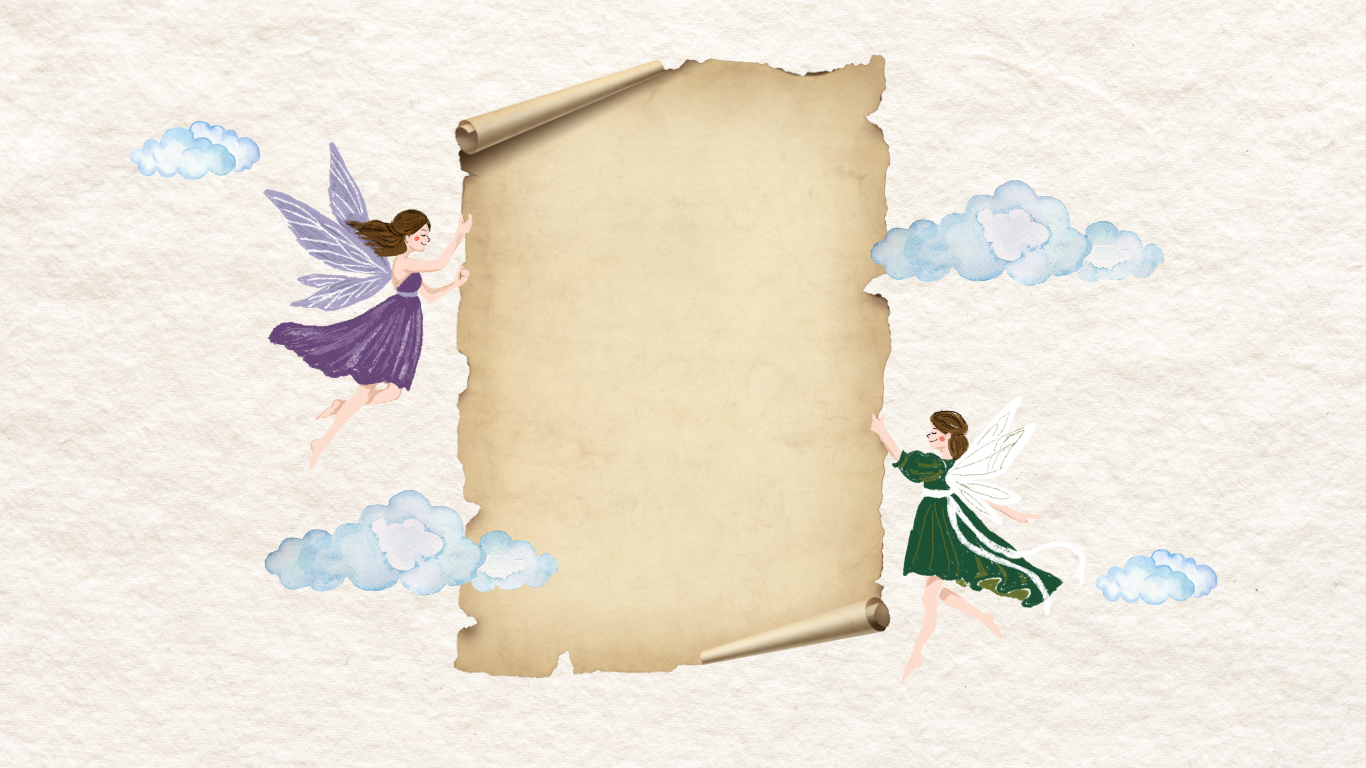
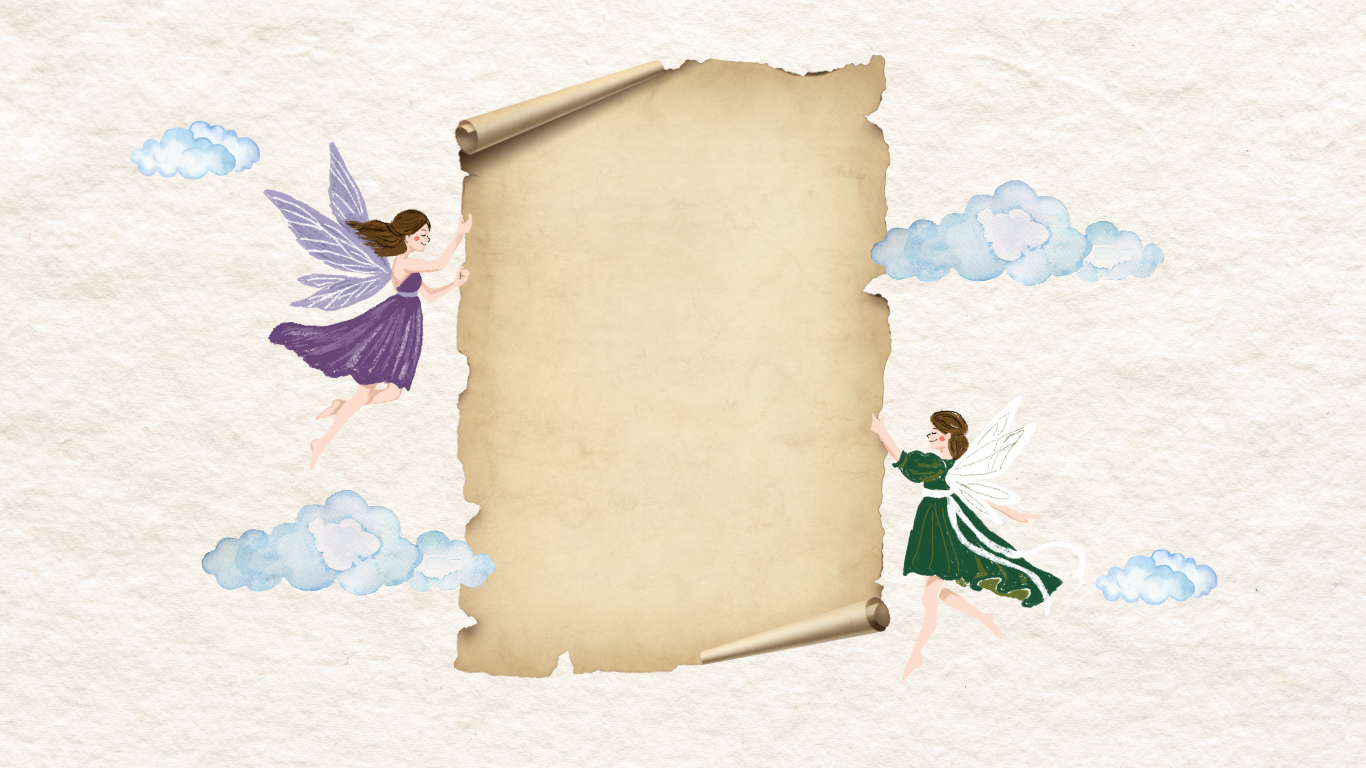
update intro section bg

Changed region(s): [[0.123, 0.625, 0.4305, 0.7812]]

diff --git a/src/app/page.tsx b/src/app/page.tsx
@@ -84,24 +84,33 @@ export default function Home() {
               />
             </section>
 
-            {/* Intro Section */}
-            <section
-              id="intro"
-              className="relative min-h-screen bg-[url('/images/intro-full.png')] bg-cover bg-center flex justify-center items-center px-2 py-16"
-            >
-              <div className="w-[90%] sm:w-[80%] md:w-[70%] lg:w-[30%] flex items-center justify-center px-4 sm:px-6 md:px-10">
-                <div
-                  className={`${uncial.className} text-[#3b2a1a] text-base sm:text-lg md:text-xl leading-relaxed text-justify`}
-                >
-                  <p className="first-letter:text-5xl first-letter:font-bold first-letter:text-[#6f2079] first-letter:leading-[1] first-letter:mr-2 first-letter:tracking-tighter first-letter:align-top first-letter:pt-1 ml-[-0.5rem]">
-                    Queridos amigos e família, estamos nos aproximando do nosso tão sonhado casamento. Esse dia, assim como nosso amor, foi pensado e concebido nos mínimos detalhes.
-                  </p>
-                  <p className="mt-6">
-                    Esperamos que vocês possam sentir a energia mágica do nosso conto de fadas escocês e estejam muito dispostos a celebrar essa união conosco. Aqui, vocês encontrarão tudo o que precisam saber sobre a nossa celebração.
-                  </p>
-                </div>
-              </div>
-            </section>
+{/* Section Intro */}
+<section
+  id="intro"
+  className="relative min-h-screen bg-[url('/images/intro-mobile.png')] sm:bg-[url('/images/intro-full.png')] bg-cover bg-center flex justify-center items-center px-2 py-16"
+>
+  <div className="w-[80%] sm:w-[70%] md:w-[55%] lg:w-[30%] flex items-center justify-center px-2 sm:px-4 md:px-6">
+    <div
+      className={`
+        ${uncial.className} text-[#3b2a1a]
+        text-xs sm:text-sm md:text-base
+        leading-relaxed text-justify
+        overflow-visible
+        pt-6
+      `}
+    >
+      <p className="first-letter:text-5xl first-letter:font-bold first-letter:text-[#6f2079] first-letter:leading-[0.8] first-letter:mr-2 first-letter:tracking-tight ml-[-0.5rem]">
+        Queridos amigos e família, estamos nos aproximando do nosso tão sonhado casamento. Esse dia, assim como nosso amor, foi pensado e concebido nos mínimos detalhes.
+      </p>
+      <p className="mt-6">
+        Esperamos que vocês possam sentir a energia mágica do nosso conto de fadas escocês e estejam muito dispostos a celebrar essa união conosco. Aqui, vocês encontrarão tudo o que precisam saber sobre a nossa celebração.
+      </p>
+    </div>
+  </div>
+</section>
+
+
+
 
             {/* RSVP Section */}
             <section
